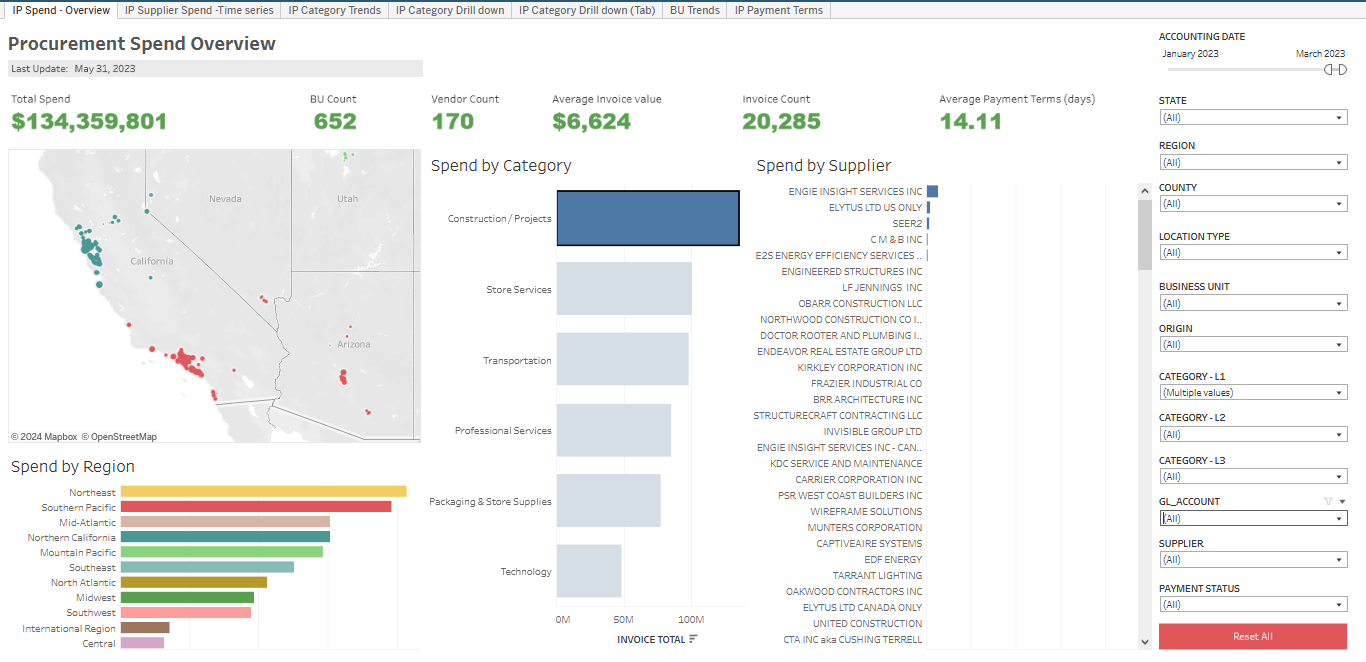
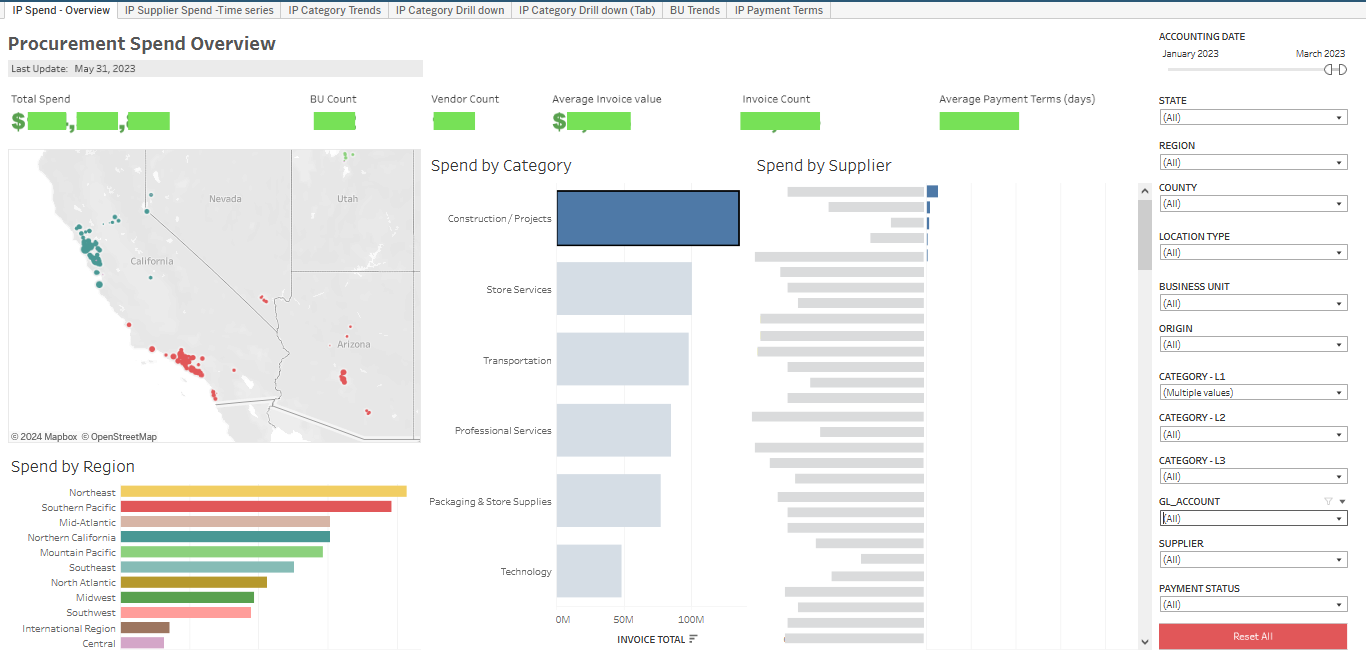
Added conclusion, fixed headers, uploaded workflow snapshots

diff --git a/README.md b/README.md
@@ -2,9 +2,9 @@
 Present is a real customer case, but respecting confidentiality all data was replaced with dummy and any database schemas are high-level approximations.
 
 ## Motivation
-Customer's procurement team was underserved from Technology / Analytics perspective and suffered from the limited access to spend data. This directly impacted their efficiency and ability to find cost optimizaton opportunities, identify potential compliance risks or track spend trends overtime. 
+Customer's procurement team was underserved from Technology / Analytics perspective and suffered from the limited access to spend data. This directly impacted their efficiency and ability to find cost optimization opportunities, identify potential compliance risks or track spend trends overtime. 
 
-The only tool they had was macro-enabled Excel document (further refered as 'master'), which was only capable of providing high-level monthly summary metrics per supplier, was not user friendly to a general business user, and was tedious to maintain. Team had access to all the raw data and tools, but lacked the skillset to convert them into fully operational spend analytics solution.
+The only tool they had was macro-enabled Excel document (further referred as 'master'), which was only capable of providing high-level monthly summary metrics per supplier, was not user friendly to a general business user, and was tedious to maintain. Team had access to all the raw data and tools, but lacked the skill set to convert them into fully operational spend analytics solution.
 
 ## Legacy solution
 Legacy tool was hard to maintain, could not be used by an average business user, did not scale well and couldn't provide required level of details. 
@@ -33,6 +33,17 @@ In the interest of maintainability technology choice was dictated by the existin
 
 
 ## Results
+
+Resulting product is a multi-tab Tableau Dashboard helping team to track core spend stats, like:
+  - Spend per Supplier / Category / Location; 
+  - Invoice Count and average invoice amounts per Supplier / Location; 
+  - Category spend trend analytics (supplier mix, and how it changed over past 5 years; Region split, etc.);
+  - Payment Terms.
+
+![image](assets/dash_preview.png)
+![image](assets/spendvsBU.PNG)
+![image](assets/payment_terms.png)
+
 New Spend Analytics Solution had multiple effects on the team:
 - For the first time team gained access to their spend data at scale and was able to compare the spend by category, supplier, time period or geography;
 - Such visibility enabled team to identify over $120M worth of cost-optimization opportunities and deploy 2-year program to execute them;
@@ -105,7 +116,7 @@ erDiagram
  Every record in `VOUCHER` table matches to at least one `DISTRIBUTION LINE`. And reference tables contain additional dimensions for `VENDOR`, `ACCOUNT` and `PROJECT` objects. SQL query seems straigthforward, however `ACCOUNT` and `VENDOR` tables contained duplicate keys, meaning these tables have many-to-many relationship to `VOUCHER` and `DISTRIBUTION LINE`. As identified later this was due to both tables contained records about inactive / historical accounts and vendors. This complexity still could be solved with use of window functions and common table expressions or temporary tables, so the query could look something like this:
 
 ``` sql
--- initialize ven CTE to store unique vendor records by showing active vendors first and recording row number for every record in each vendor_id. Meaning if rn > 1 then record is dublicate. 
+-- initialize [ven] CTE to store unique vendor records by showing active vendors first and recording row number for every record in each vendor_id. Meaning if rn > 1 then record is a duplicate. 
 WITH ven
      AS (SELECT vendor_id,
                 vendor_name
@@ -118,7 +129,7 @@ WITH ven
                            ORDER BY vendor_status) rn
                 FROM   vendor)
          WHERE  rn = 1),
--- initialize acc CTE to store unique account records following same logic as for ven
+-- initialize [acc] CTE to store unique account records following same logic as for ven
      acc
      AS (SELECT account_id,
                 account_descr
@@ -155,7 +166,7 @@ FROM   voucher A
          ON B.account = acc.account
        LEFT JOIN project D
               ON B.project_id = D.project_id
---Dates are used as placeholders and overriden with Alteryx Dynamic Input tool
+-- Dates are used as placeholders and overridden with Alteryx Dynamic Input tool
 WHERE  A.accounting_dt >= To_date('2023-02-01', 'YYYY-MM-DD')
        AND A.accounting_dt <= To_date('2023-02-02', 'YYYY-MM-DD')
 
@@ -164,6 +175,28 @@ ORDER  BY A.business_unit,
           B.voucher_line_num  
 
 ```
-However since we strive to keep focus on solutions's maintainability and knowing that main data transform would anyway happen within Alteryx it was decided to keep SQL queries concise and straightforward. This led me to pulling reference tables separately and joining them in the Alteryx. This way `PROJECT`, `VENDOR`, and `ACCOUNT` querries were trimmed down to simple `SELECT... FROM...` statement and main query was left with 2 tables and only 1 join.
+However since we strive to keep focus on solutions's maintainability and knowing that main data transformation would anyway happen within Alteryx it was decided to keep SQL queries concise and straightforward. This led me to pulling reference tables separately and joining them in Alteryx. This way `PROJECT`, `VENDOR`, and `ACCOUNT` queries were trimmed down to simple `SELECT... FROM...` statement and main query was left with 2 tables and only 1 join.
+
+As per conversation with the customer it was decided to keep the update cadence as monthly. In practice this was implemented through schedule on Alteryx Server and Dynamic Input tool to dynamically replace dates in the query.
+
+## Transform
+
+Full Alteryx workflow 
+Category mapping was created and maintained separately with set of categorization rules defined for various GL-Supplier combinations. 
+
+
+    '''WORK IN PROGRESS'''
+    pull workflow from datashaper and configure dynamic input tool
+    clean-up reference tables load
+    check if vendor details reference should be added as well
+    provide explanation to selecting to store .yxdb data files vs exporting to Teradata (lack of external users)
+
+## Delivery to user
+Resulting dataset is loaded to:
+- FSx folder for ease of access to processed data in case of any ad-hoc requests from stakeholders;
+- Tableau Server for creating a BI layer for users to self-serve core spend insights.
+
+Tableau dashboard has 
+
 
 
